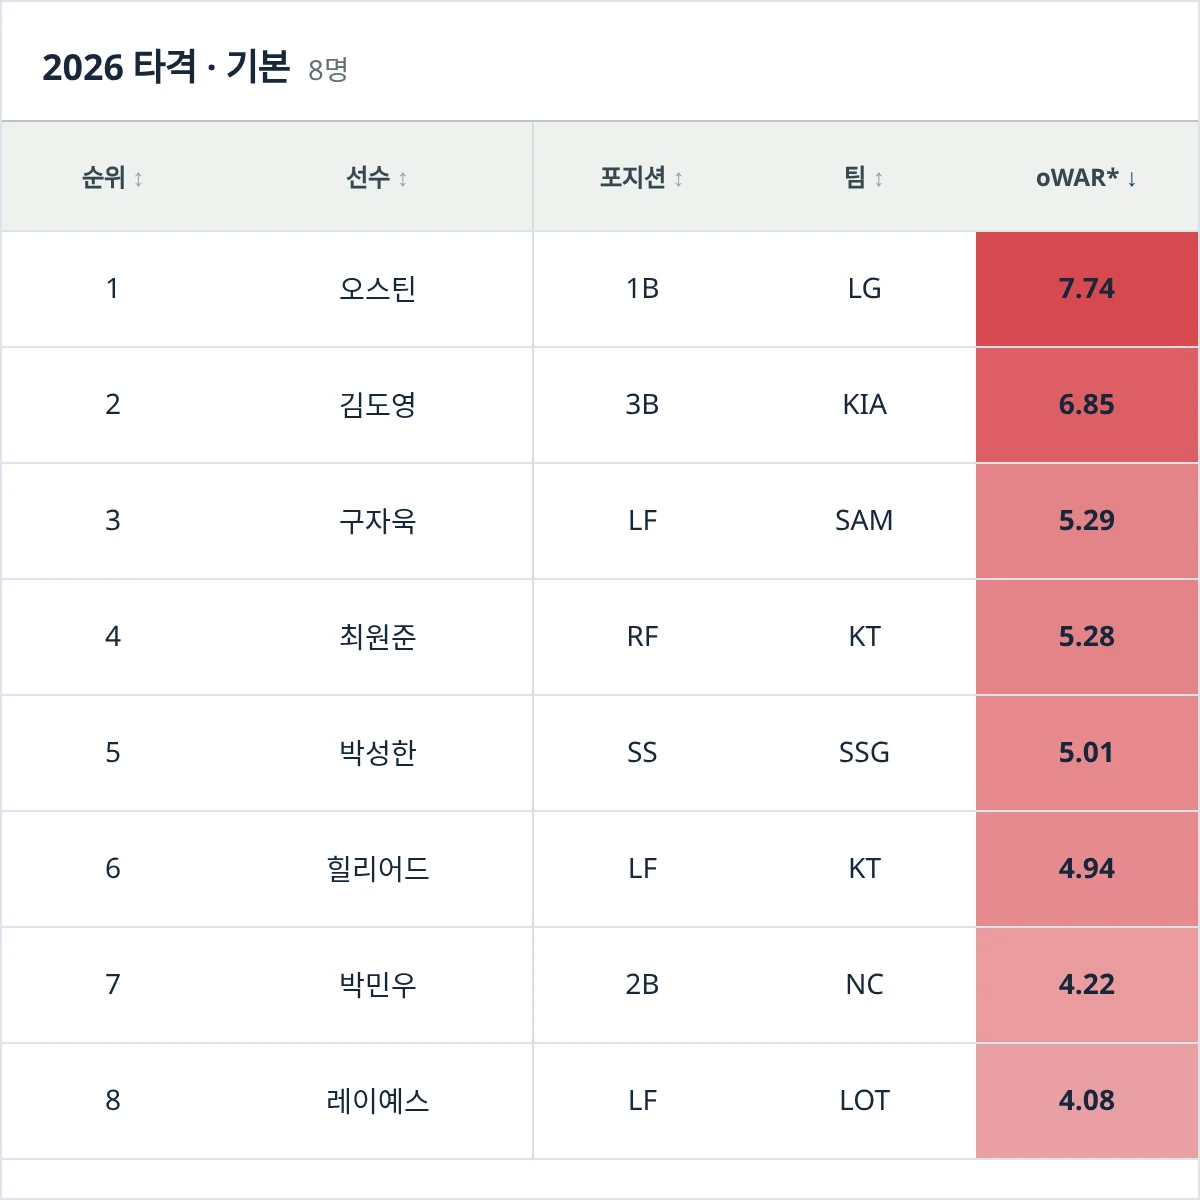
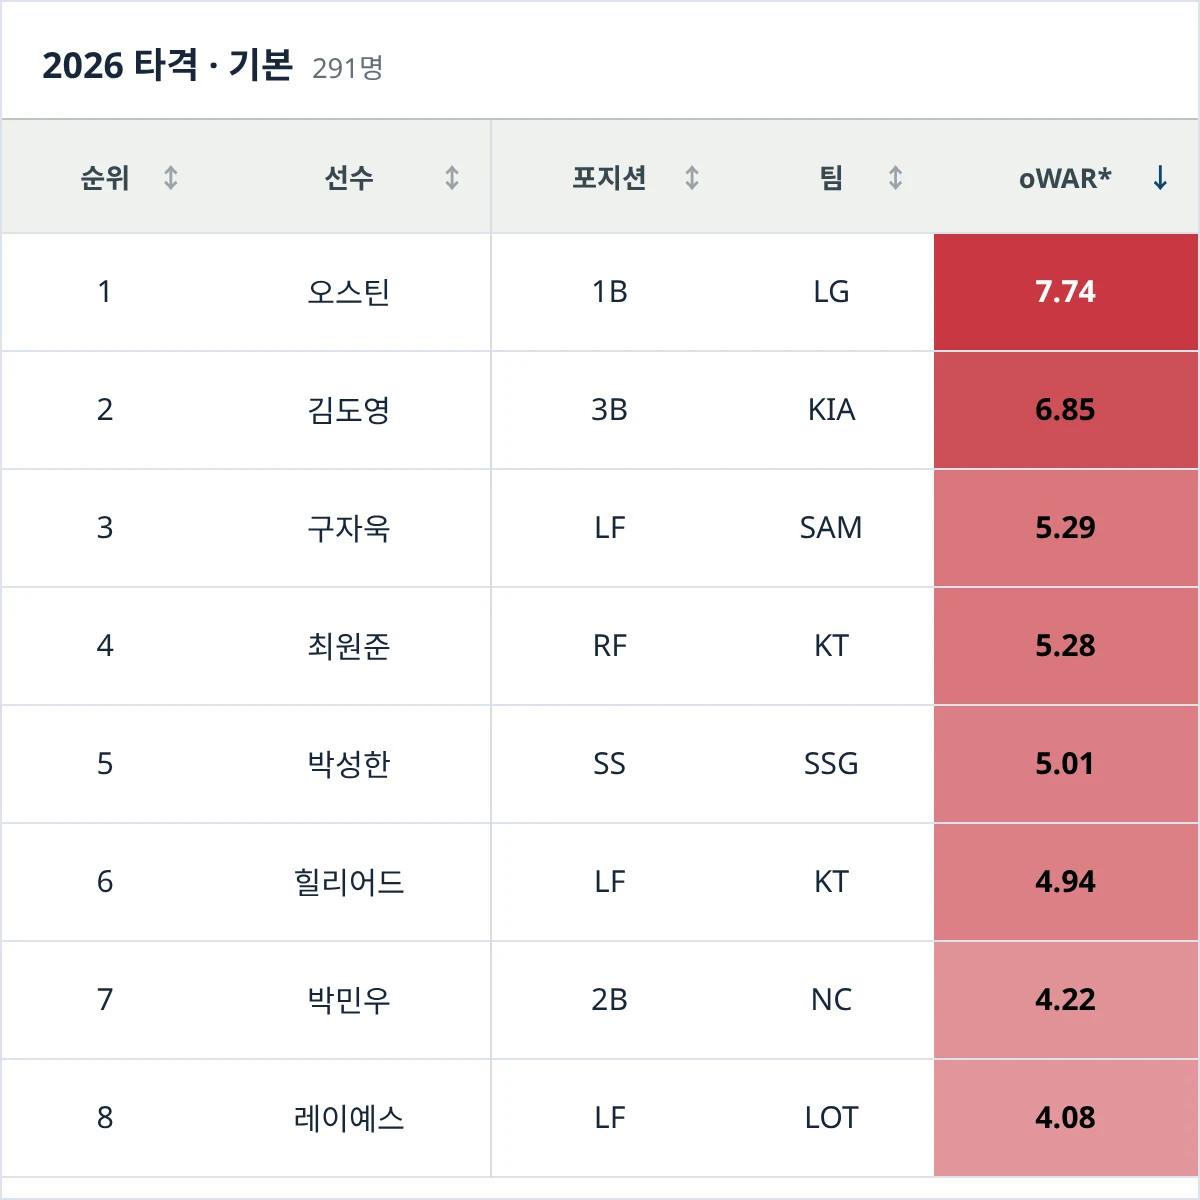
웹: 리더보드 열 정렬과 페이지 탐색 및 색 대비 개선
- 제목과 값의 중심을 맞추고 표 글자 크기 확대
- 기본 50명씩 긴 표와 번호 페이지 및 표시 인원 선택 제공
- 진한 색 셀의 흰 글자와 전체 색 스케일 대비 검증
- 리더보드 썸네일과 캐시 버전 갱신

diff --git a/web/leaderboards/leaderboards.js b/web/leaderboards/leaderboards.js
@@ -1,6 +1,6 @@
 const $ = selector => document.querySelector(selector);
 const thumbnailParams = new URLSearchParams(location.search);
-const state = { catalog:null, payload:null, dataset:null, sortKey:null, direction:-1 };
+const state = { catalog:null, payload:null, dataset:null, sortKey:null, direction:-1, page:1, pageSize:50 };
 const labels = { batting:"타격 · 기본", "batting-advanced":"타격 · 확장", fielding:"수비", pitching:"투수 · 기본", "pitching-advanced":"투수 · 확장", "pitch-value":"투구 지표" };
 const coloredMetrics = new Set(["WAR", "oWAR", "OAA"]);
 const isColoredColumn = column => coloredMetrics.has(column.key) || /(?:^|\s)OAA$/.test(column.label);
@@ -22,7 +22,7 @@ function formatValue(value, key) {
 // WAR diverging scale: positive=red, negative=blue. Same concept as pitch-arsenal.js's
 // PERCENTILE_HIGH/LOW and zone.js's savantBands, each with its own endpoint values — not yet
 // unified into one palette.
-const WAR_POSITIVE_RGB = [216, 73, 81];
+const WAR_POSITIVE_RGB = [200, 55, 65];
 const WAR_NEGATIVE_RGB = [58, 102, 169];
 
 function warColor(value, maximum) {
@@ -32,13 +32,29 @@ function warColor(value, maximum) {
   return `rgb(${channel(0)} ${channel(1)} ${channel(2)})`;
 }
 
+function warTextColor(value, maximum) {
+  const rgb = warColor(value, maximum).match(/\d+/g).map(Number);
+  const linear = channel => channel <= .04045 ? channel / 12.92 : ((channel + .055) / 1.055) ** 2.4;
+  const luminance = channels => channels.map(channel => linear(channel / 255)).reduce((sum, channel, index) => sum + channel * [.2126, .7152, .0722][index], 0);
+  const background = luminance(rgb);
+  const dark = 0;
+  return 1.05 / (background + .05) > (background + .05) / (dark + .05) ? "#fff" : "#000";
+}
+
+function pageRows(rows, page, pageSize) {
+  const pages = Math.max(1, Math.ceil(rows.length / pageSize));
+  const current = Math.min(pages, Math.max(1, page));
+  const start = (current - 1) * pageSize;
+  return { rows:rows.slice(start, start + pageSize), page:current, pages, start };
+}
+
 function cellMarkup(row, column, maximumWar) {
   const value = row[column.key];
   const classes = [value == null ? "null" : ""];
   let style = "";
   if (isColoredColumn(column) && maximumWar[column.key] && isNumber(value)) {
     classes.push("war-cell");
-    style = ` style="--war-color:${warColor(value, maximumWar[column.key])}"`;
+    style = ` style="--war-color:${warColor(value, maximumWar[column.key])};--war-text:${warTextColor(value, maximumWar[column.key])}"`;
   }
   const range = column.key === "oWAR" ? row.oWAR_range : null;
   const display = Array.isArray(range) && range[0] !== range[1]
@@ -65,26 +81,40 @@ function filteredRows() {
 function render() {
   const columns = state.dataset.columns.filter(column => !["Year", "Sample"].includes(column.key) && !hiddenColumns[state.dataset.id]?.has(column.key));
   const limit = Number(thumbnailParams.get("limit"));
-  const rows = Number.isInteger(limit) && limit > 0 ? filteredRows().slice(0, limit) : filteredRows();
+  const allRows = filteredRows();
+  const pagination = pageRows(allRows, state.page, state.pageSize);
+  state.page = pagination.page;
+  const rows = thumbnailParams.get("thumb") === "1" && Number.isInteger(limit) && limit > 0 ? allRows.slice(0, limit) : pagination.rows;
   const maximumWar = Object.fromEntries(columns.filter(isColoredColumn).map(column => [
     column.key, Math.max(1, ...state.dataset.rows.filter(row => isNumber(row[column.key])).map(row => Math.abs(row[column.key])))
   ]));
   $("#table-title").textContent = `${state.payload.season} ${labels[state.dataset.id] || state.dataset.title}`;
-  $("#row-count").textContent = `${rows.length.toLocaleString("ko-KR")}명`;
+  $("#row-count").textContent = `${allRows.length.toLocaleString("ko-KR")}명`;
   $("#leaderboard-head").innerHTML = `<tr>${columns.map(column => `<th data-key="${column.key}" aria-sort="${state.sortKey===column.key ? (state.direction===1?"ascending":"descending") : "none"}"><button type="button">${column.label}</button></th>`).join("")}</tr>`;
   $("#leaderboard-body").innerHTML = rows.map(row => `<tr>${columns.map(column => cellMarkup(row, column, maximumWar)).join("")}</tr>`).join("");
   $("#status").textContent = rows.length ? "" : "조건에 맞는 선수가 없습니다.";
+  $("#page-range").textContent = allRows.length ? `${pagination.start + 1}–${pagination.start + rows.length} / ${allRows.length.toLocaleString("ko-KR")}명` : "0명";
+  const pages = Array.from({length:pagination.pages}, (_, index) => index + 1);
+  $("#page-buttons").innerHTML = `<button type="button" data-page="${state.page - 1}" aria-label="이전 페이지" ${state.page === 1 ? "disabled" : ""}>‹</button>${pages.map(page => `<button type="button" data-page="${page}" aria-label="${page}페이지" ${page === state.page ? 'aria-current="page"' : ""}>${page}</button>`).join("")}<button type="button" data-page="${state.page + 1}" aria-label="다음 페이지" ${state.page === pagination.pages ? "disabled" : ""}>›</button>`;
+  $("#page-buttons").querySelectorAll("button").forEach(button => button.addEventListener("click", () => {
+    state.page = Number(button.dataset.page);
+    render();
+    $("#page-buttons").querySelector('[aria-current="page"]').focus({preventScroll:true});
+    $(".table-card").scrollIntoView({block:"start"});
+  }));
   const target = $("[data-thumbnail-target]");
   if (target) target.dataset.thumbnailReady = "true";
   $("#leaderboard-head").querySelectorAll("th").forEach(th => th.addEventListener("click", () => {
     const key=th.dataset.key;
     state.direction = state.sortKey===key ? state.direction*-1 : (state.dataset.rows.some(row => isNumber(row[key])) ? -1 : 1);
     state.sortKey=key;
+    state.page=1;
     render();
   }));
 }
 
 function selectDataset(id) {
+  state.page=1;
   state.dataset = state.payload.datasets.find(item => item.id===id) || state.payload.datasets[0];
   const requestedSort = thumbnailParams.get("sort");
   state.sortKey = state.dataset.columns.find(column => column.key === requestedSort)?.key || ["WAR","oWAR","OAA","RK","rk"].find(key => state.dataset.columns.some(column => column.key === key)) || state.dataset.columns[0].key;
@@ -120,7 +150,8 @@ fetch("../data/leaderboards/index.json", { cache:"no-store" }).then(response=>re
 
 $("#season-select").addEventListener("change", event=>loadSeason(event.target.value));
 $("#dataset-select").addEventListener("change", event=>selectDataset(event.target.value));
-$("#player-search").addEventListener("input", render);
-$("#team-select").addEventListener("change", render);
-
-$("#sample-select").addEventListener("change", render);
+function resetPage() { state.page=1; render(); }
+$("#player-search").addEventListener("input", resetPage);
+$("#team-select").addEventListener("change", resetPage);
+$("#sample-select").addEventListener("change", resetPage);
+$("#page-size").addEventListener("change", event => { state.pageSize=Number(event.target.value); resetPage(); });

diff --git a/web/leaderboards/leaderboards.css b/web/leaderboards/leaderboards.css
@@ -14,12 +14,12 @@ select:focus, input:focus { outline:3px solid #c3cedb; border-color:var(--accent
 .table-meta strong { font-size:1.12rem; }
 .table-meta span { margin-left:9px; color:var(--muted); font-size:.86rem; }
 .table-meta p { margin:0; color:var(--muted); font-size:.78rem; }
-.table-scroll { max-height:68vh; overflow:auto; }
-table { width:100%; border-collapse:separate; border-spacing:0; font-size:.88rem; font-variant-numeric:tabular-nums; white-space:nowrap; }
+.table-scroll { overflow-x:auto; }
+table { width:100%; border-collapse:separate; border-spacing:0; font-size:.95rem; font-variant-numeric:tabular-nums; white-space:nowrap; }
 th, td { min-width:76px; padding:10px 12px; border-bottom:1px solid #e8ede9; text-align:center; }
-th { position:sticky; top:0; z-index:2; border-bottom-color:#c6cccf; background:var(--header); color:#37474f; font-size:.76rem; }
-th button { width:100%; padding:0; border:0; background:transparent; color:inherit; font:inherit; font-weight:800; text-align:center; cursor:pointer; }
-th button::after { content:" ↕"; color:#9aa4a9; }
+th { position:sticky; top:0; z-index:2; border-bottom-color:#c6cccf; background:var(--header); color:#37474f; font-size:.85rem; }
+th button { position:relative; width:100%; padding:0 14px; border:0; background:transparent; color:inherit; font:inherit; font-weight:800; text-align:center; cursor:pointer; }
+th button::after { position:absolute; right:0; top:50%; transform:translateY(-50%); content:"↕"; color:#9aa4a9; }
 th[aria-sort="ascending"] button::after { content:" ↑"; color:var(--accent); }
 th[aria-sort="descending"] button::after { content:" ↓"; color:var(--accent); }
 th:nth-child(2), td:nth-child(2) { position:sticky; left:0; z-index:1; min-width:105px; background:var(--paper); box-shadow:1px 0 #d8dddf; }
@@ -27,7 +27,16 @@ thead th:nth-child(2) { z-index:3; background:var(--header); }
 tbody tr:hover td { background:#f7f8f7; }
 tbody tr:hover td:nth-child(2) { background:#f7f8f7; }
 td.null { color:#a2ada6; }
-td.war-cell, tbody tr:hover td.war-cell { background:var(--war-color); font-weight:700; }
+td.war-cell, tbody tr:hover td.war-cell { background:var(--war-color); color:var(--war-text); font-weight:700; }
+.table-pagination { display:flex; justify-content:space-between; align-items:center; flex-wrap:wrap; gap:14px; margin-top:14px; }
+.page-buttons { display:flex; flex-wrap:wrap; gap:4px; }
+.page-buttons button { min-width:36px; height:36px; border:1px solid var(--line); background:#fff; color:var(--accent); font:700 .9rem Arial,sans-serif; cursor:pointer; }
+.page-buttons button[aria-current="page"] { background:var(--accent); color:#fff; }
+.page-buttons button:disabled { opacity:.4; cursor:default; }
+.page-buttons button:focus-visible { outline:2px solid var(--accent); outline-offset:2px; }
+.page-summary { display:flex; align-items:center; flex-wrap:wrap; gap:16px; font-size:.85rem; color:var(--muted); }
+.page-summary label { display:flex; align-items:center; gap:8px; }
+.page-summary select { width:auto; min-height:36px; }
 .status { margin:0; padding:28px; color:var(--muted); text-align:center; }
 .status:empty { display:none; }
 @media (max-width:760px) {
@@ -43,6 +52,7 @@ html.thumbnail-mode .site-header,
 html.thumbnail-mode .leaderboard-page > nav,
 html.thumbnail-mode .leaderboard-page > header,
 html.thumbnail-mode .controls,
+html.thumbnail-mode .table-pagination,
 html.thumbnail-mode .method-card { display:none; }
 html.thumbnail-mode body { background:#f4f4f2; }
 html.thumbnail-mode .leaderboard-page { width:600px; padding:0; }

diff --git a/web/leaderboards/index.html b/web/leaderboards/index.html
@@ -5,7 +5,7 @@
   <meta name="viewport" content="width=device-width, initial-scale=1">
   <meta name="description" content="KBO 타격·투구·수비 지표 리더보드">
   <title>KBO Savant Leaderboards</title>
-  <link rel="stylesheet" href="leaderboards.css?v=20261007-3">
+  <link rel="stylesheet" href="leaderboards.css?v=20261008-1">
   <link rel="stylesheet" href="../theme.css?v=20261007-1">
   <script>if (new URLSearchParams(location.search).get("thumb") === "1") document.documentElement.classList.add("thumbnail-mode");</script>
 </head>
@@ -39,8 +39,12 @@
       </div>
       <p id="status" class="status">데이터를 불러오는 중입니다.</p>
     </section>
+    <div class="table-pagination">
+      <nav id="page-buttons" class="page-buttons" aria-label="리더보드 페이지"></nav>
+      <div class="page-summary"><span id="page-range"></span><label>페이지당 선수<select id="page-size"><option value="50">50명</option><option value="100">100명</option><option value="200">200명</option></select></label></div>
+    </div>
     <section class="method-card"><h2>What is this?</h2><p id="source-note">제공된 시즌별 KBO 통계 자료를 기준으로 표시합니다. 빈 값은 —로 표기합니다.</p></section>
   </main>
-  <script src="leaderboards.js?v=20261007-4"></script>
+  <script src="leaderboards.js?v=20261008-1"></script>
 </body>
 </html>

diff --git a/web/index.html b/web/index.html
@@ -15,7 +15,7 @@
       <h2 id="visuals-title">Explore</h2>
       <div class="visual-grid">
         <a class="visual-card" href="leaderboards/">
-          <div class="visual-art" aria-hidden="true"><img src="assets/thumbnails/leaderboards.webp?v=20261007-3" alt=""></div>
+          <div class="visual-art" aria-hidden="true"><img src="assets/thumbnails/leaderboards.webp?v=20261008-1" alt=""></div>
           <div class="visual-card__body"><h3>Leaderboards</h3><p>시즌별 타격·투구·수비 지표 검색과 정렬</p><b>열기 →</b></div>
         </a>
         <a class="visual-card" href="zones/">

diff --git a/docs/decisions/0020-leaderboard-pagination.md b/docs/decisions/0020-leaderboard-pagination.md
@@ -1,0 +1,21 @@
+# 0020. 리더보드 열 정렬과 페이지 탐색
+
+**상태: 채택**
+
+## 맥락
+정렬 화살표가 열 제목의 중심을 밀어 값과 어긋나 보였고, 고정 높이 표 안에서 세로 스크롤해야 했다. 사용자는 서번트처럼 긴 표와 번호 페이지, 조금 큰 글자, 진한 색 셀의 흰 글자를 요청했다.
+
+## 결정
+- 정렬 화살표를 버튼 오른쪽에 별도로 배치해 제목과 값의 중심을 맞춘다. 본문은 .95rem, 제목은 .85rem로 키운다.
+- 표 내부의 세로 높이 제한을 없애고 기본 50명씩 표시한다. 하단 번호·이전/다음 버튼, 표시 범위, 50/100/200명 선택을 제공한다. 넓은 통계 표의 가로 스크롤과 선수명 고정은 유지한다.
+- 필터링·정렬 후 페이지를 나눈다. 검색·팀·표본·시즌·분류·정렬·페이지 크기를 바꾸면 첫 페이지로 돌아간다. 빈 결과와 마지막 페이지도 범위를 벗어나지 않는다.
+- 기존 시즌·분류 전체 표본을 기준으로 한 WAR/oWAR/OAA 색 스케일은 유지하며 가장 진한 빨강은 흰 글자와 충분한 대비가 나도록 조금 어둡게 한다. 배경의 상대 휘도를 계산해 흰색과 진한 글자색 중 대비가 높은 글자색을 고르며 hover에서도 유지한다.
+- 썸네일 모드는 기존 limit을 사용하고 페이지 탐색을 숨긴다.
+
+## 기각한 대안
+- 전체 선수를 한 번에 무한 스크롤: 사용자가 요청한 번호 페이지 탐색을 제공하지 못한다.
+- 모든 통계 열을 화면에 맞게 축소: 글자를 키워 가독성을 높이려는 요청과 맞지 않는다.
+- 색의 진하기만 보고 임의의 임계값으로 흰 글자 선택: 빨강·파랑의 휘도가 다르므로 실제 대비를 계산한다.
+
+## 결과
+`tests/test_leaderboards_pagination.cjs`에서 페이지 경계와 양·음 색 스케일의 4.5:1 이상 글자 대비를 확인한다. 1440px·390px에서 전후 화면, 필터·정렬·페이지 이동 및 가로 넘침을 확인한다.

diff --git a/docs/decisions/README.md b/docs/decisions/README.md
@@ -37,6 +37,8 @@
 | [0018](0018-swing-take-capture-background.md) | Swing/Take 모바일·저장 이미지의 League Avg 점선 배경 | 웹·하네스 |
 | [0019](0019-swing-take-mobile-loading.md) | 모바일 Swing/Take 로딩 표시에서 완성 이미지로 전환 | 웹·하네스 |
 
+| [0020](0020-leaderboard-pagination.md) | 리더보드 열 정렬·번호 페이지·색 대비 | 웹 |
+
 ### 다른 곳에 있는 결정·근거
 
 | 주제 | 문서 |
